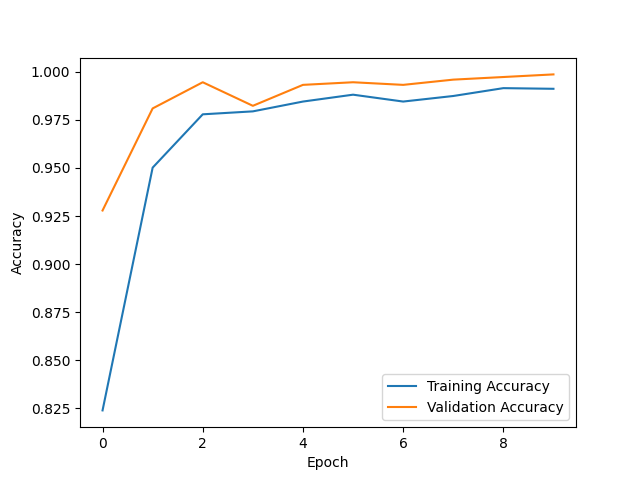
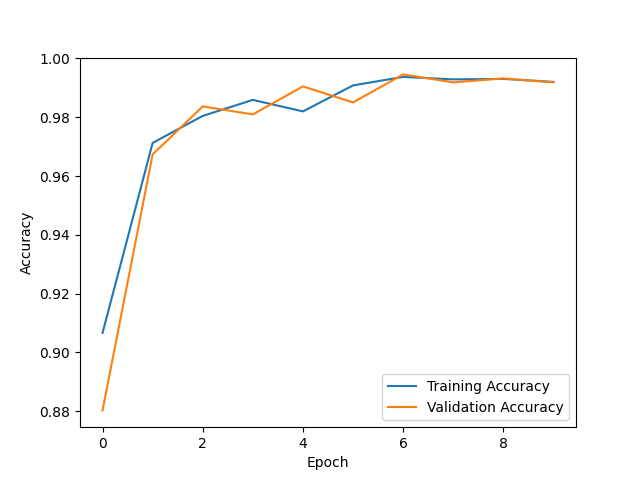
push

diff --git a/main.py b/main.py
@@ -24,7 +24,7 @@ transform = nn.Sequential(
     # random grayscale
     kornia.augmentation.RandomGrayscale(p=0.2),
     # random blur
-    kornia.augmentation.RandomGaussianBlur((3, 3), (1.5, 1.5), p=0.2),
+    kornia.augmentation.RandomGaussianBlur((3, 3), (1.5, 1.5), p=0.1),
     # random affine
     kornia.augmentation.RandomAffine((-15, 20), p=0.1),
     
@@ -57,9 +57,9 @@ def load_dataset(binary_classification=False):
       else:
         raise ValueError(f"Unknown label: {target}")
 
-    train_dataset = datasets.OxfordIIITPet(root=data_dir, split="trainval", target_transform=target_transform)
+    train_dataset = datasets.OxfordIIITPet(root=data_dir, split="trainval", transform=transform, target_transform=target_transform)
     train_dataset.classes = ['dog', 'cat']
-    test_dataset = datasets.OxfordIIITPet(root=data_dir, split="test", target_transform=target_transform)
+    test_dataset = datasets.OxfordIIITPet(root=data_dir, split="test", transform=transform, target_transform=target_transform)
     test_dataset.classes = ['dog', 'cat']
     dataset = torch.utils.data.ConcatDataset([train_dataset, test_dataset])
 
@@ -171,15 +171,15 @@ def train(model, training_data, validation_data, optimizer, scheduler, criterion
 
   return training_metrics
 
-def plot_loss(training_loss, validation_loss):
+def plot_loss(training_loss, validation_loss, filename="loss.png"):
   plt.plot(training_loss, label="Training Loss")
   plt.plot(validation_loss, label="Validation Loss")
   plt.xlabel("Epoch")
   plt.ylabel("Loss")
   plt.legend()
-  plt.savefig("plots/binary_loss.png")
+  plt.savefig("plots/" + filename)
 
-def plot_accuracy(training_accuracy, validation_accuracy):
+def plot_accuracy(training_accuracy, validation_accuracy, filename="accuracy.png"):
   # Convert tuple elements to floats
   training_accuracy = [float(i) for i in training_accuracy]
   validation_accuracy = [float(i) for i in validation_accuracy]
@@ -189,13 +189,13 @@ def plot_accuracy(training_accuracy, validation_accuracy):
   plt.xlabel("Epoch")
   plt.ylabel("Accuracy")
   plt.legend()
-  plt.savefig("plots/binary_accuracy.png")
+  plt.savefig("plots/" + filename)
 
-def plot(training_metrics):
+def plot(training_metrics, loss_filename="loss.png", accuracy_filename="accuracy.png"):
   training_loss, training_accuracy, validation_loss, validation_accuracy = zip(*training_metrics)
-  plot_loss(training_loss, validation_loss)
+  plot_loss(training_loss, validation_loss, loss_filename)
   plt.close()
-  plot_accuracy(training_accuracy, validation_accuracy)
+  plot_accuracy(training_accuracy, validation_accuracy, accuracy_filename)
   plt.close()
 
 # Evaluate the most recently trained model on the test set
@@ -210,7 +210,7 @@ def test(model, test_data, criterion, load_from_pretrained=False):
 
 if __name__ == "__main__":
   do_binary_classification = False 
-  load_from_pretrained = False
+  load_from_pretrained = False 
   training_data, validation_data, test_data = load_dataset(binary_classification=do_binary_classification)
 
   model = create_resnet_model(
@@ -231,10 +231,11 @@ if __name__ == "__main__":
       optimizer=optimizer,
       scheduler=scheduler,
       criterion=criterion,
-      n_epochs=20,
+      n_epochs=50,
     )
 
-    plot(training_metrics)
+    prefix = "binary_" if do_binary_classification else "multiclass_"
+    plot(training_metrics, loss_filename=prefix + "loss.png", accuracy_filename=prefix + "accuracy.png")
 
   test(model, test_data, criterion, load_from_pretrained=load_from_pretrained)
 
